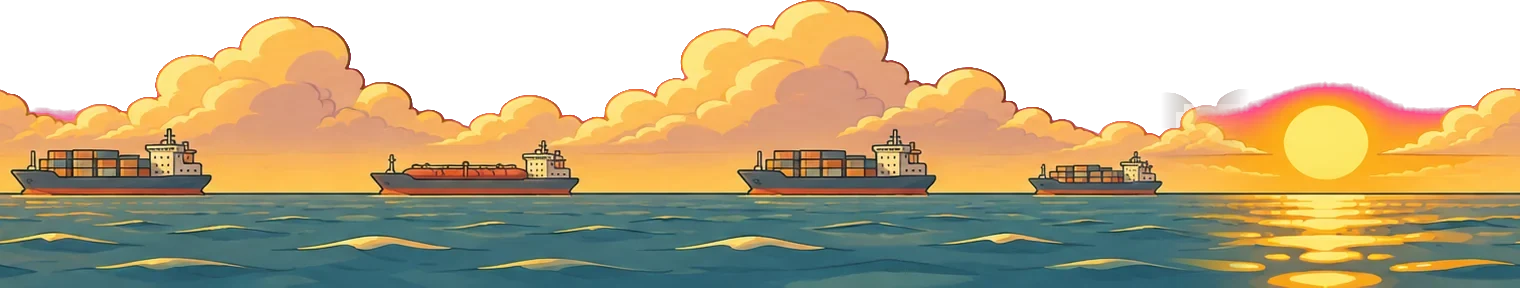
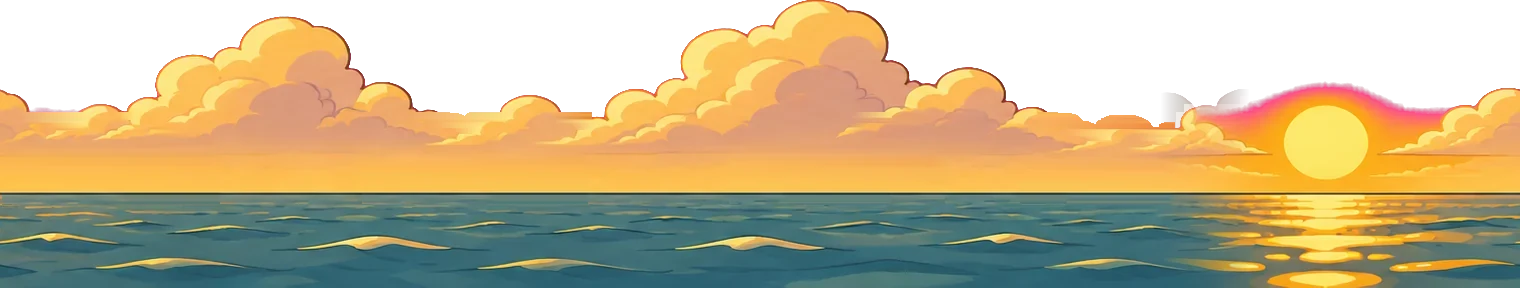
Lagos: beach sky comes in softly behind the mansion, sun behind the last tower, no ships on the horizon
Claude-Session: https://claude.ai/code/session_01HFQNfBKVo2xfi18qsga3m5

diff --git a/login.html b/login.html
@@ -212,15 +212,15 @@ details p{font-weight:600;color:var(--muted)}
 </head><body>
 
 <nav class="top"><div class="in">
-  <a class="mark" href="index.html?v=1794416194">Little Worlds</a>
-  <a class="pill sm" href="builder.html?v=1794416194&fresh=1">Build their world</a>
+  <a class="mark" href="index.html?v=1794417084">Little Worlds</a>
+  <a class="pill sm" href="builder.html?v=1794417084&fresh=1">Build their world</a>
 </div></nav>
 
 <header class="strip"><div class="torn" id="torn"></div><h1 class="outline" id="headline">Welcome <span class="s">back</span></h1></header>
 
 <aside class="side" id="side" aria-label="Account">
-  <a class="logo" href="index.html?v=1794416194">Little Worlds</a>
-  <a class="nav" href="#account"><i>⌂</i>Overview</a><a class="nav" href="#worlds"><i>★</i>Worlds</a><a class="nav" href="#plan"><i>£</i>Plan &amp; billing</a><a class="nav" href="#you"><i>⚙</i>Settings</a><a class="nav" href="#help"><i>?</i>Help</a><a class="nav" href="feedback.html?v=1794416194"><i>✎</i>Feedback</a>
+  <a class="logo" href="index.html?v=1794417084">Little Worlds</a>
+  <a class="nav" href="#account"><i>⌂</i>Overview</a><a class="nav" href="#worlds"><i>★</i>Worlds</a><a class="nav" href="#plan"><i>£</i>Plan &amp; billing</a><a class="nav" href="#you"><i>⚙</i>Settings</a><a class="nav" href="#help"><i>?</i>Help</a><a class="nav" href="feedback.html?v=1794417084"><i>✎</i>Feedback</a>
   <div class="me" id="sideMe"></div>
 </aside>
 <main class="wrap">
@@ -262,7 +262,7 @@ details p{font-weight:600;color:var(--muted)}
 (()=>{
 const $=s=>document.querySelector(s);
 const esc=t=>String(t).replace(/[&<>"]/g,c=>({'&':'&amp;','<':'&lt;','>':'&gt;','"':'&quot;'}[c]));
-const DOMAIN='myworld.games',GAME='play.html?v=1794416194';
+const DOMAIN='myworld.games',GAME='play.html?v=1794417084';
 const playLink=g=>{const c={};['name','kid','style','acc','skin','hair','hood','jog','shoe','worlds','slug'].forEach(k=>{if(g[k]!==undefined)c[k]=g[k]});c.paid=true;
   return GAME+'&w='+btoa(unescape(encodeURIComponent(JSON.stringify(c)))).replace(/\+/g,'-').replace(/\//g,'_').replace(/=+$/,'')};
 const TRIPS={woolwich:['Woolwich','ui_card_woolwich.webp','#6d3fc0'],brixton:['Brixton','ui_card_brixton.webp','#e8701c'],greenwich:['Greenwich','ui_card_greenwich.webp','#00a4a7'],canarywharf:['Canary Wharf','ui_card_canarywharf.webp','#1f62b4'],
@@ -327,7 +327,7 @@ function renderAccount(){
 function feedbackLink(){let f={};try{f=JSON.parse(localStorage.getItem('lw_feedback_v2')||'{}')}catch(e){}
   const p=f.parts||{},one=p[1]||{},two=p[2]||{};
   if(one.done&&two.done)return '';
-  return `<a class="fbk" href="feedback.html?v=1794416194"><span><b>Got a few minutes?</b> Tell us what you think of Little Worlds.</span><i>${one.i||two.i?'Carry on':'Give feedback'} ▸</i></a>`}
+  return `<a class="fbk" href="feedback.html?v=1794417084"><span><b>Got a few minutes?</b> Tell us what you think of Little Worlds.</span><i>${one.i||two.i?'Carry on':'Give feedback'} ▸</i></a>`}
 
 /* Overview (desktop dashboard) */
 function vOverview(a){
@@ -336,13 +336,13 @@ function vOverview(a){
   const cards=a.games.map(g=>{const st=stats(g),n=(g.worlds||[]).length,first=TRIPS[(g.worlds||[])[0]]||TRIPS.woolwich,url=`${g.slug}.${DOMAIN}`;
     return `<div class="dw ${g.paused?'paused':''}"><div class="pic" style="background-image:url(${first[1]})"><span class="chip ${g.paused?'off':''}">${g.paused?'Paused':'Playing'}</span><h4>${esc(g.name)}<span class="s">’s</span> World</h4></div>
       <div class="b"><span class="lk">${esc(url)}</span><div class="meta"><span>Trips finished</span><span>${st.done} of ${n}</span></div><div class="pbar"><i style="width:${n?Math.round(st.done/n*100):0}%"></i></div>
-      <div class="btns"><a class="pill" href="${playLink(g)}">Play ▸</a><a class="pill ghost" href="builder.html?v=1794416194&edit=${encodeURIComponent(g.slug)}&step=1">Edit</a>
+      <div class="btns"><a class="pill" href="${playLink(g)}">Play ▸</a><a class="pill ghost" href="builder.html?v=1794417084&edit=${encodeURIComponent(g.slug)}&step=1">Edit</a>
         <button class="pill ghost" data-sharelink="https://${esc(url)}" data-name="${esc(g.name)}">Share</button><a class="pill ghost" href="#worlds" aria-label="More options for ${esc(g.name)}’s World">•••</a></div></div></div>`}).join('');
-  const add=room>0?`<a class="addw" href="builder.html?v=1794416194&fresh=1"><div><span class="plus">+</span><b>Add a world</b><p>${room} ${room>1?'spaces':'space'} left on your plan</p></div></a>`
-    :a.plan==='one'?`<a class="addw" href="builder.html?v=1794416194&fresh=1"><div><span class="plus">+</span><b>Add a world</b><p>Switch to Family for up to 4 worlds</p></div></a>`:'';
+  const add=room>0?`<a class="addw" href="builder.html?v=1794417084&fresh=1"><div><span class="plus">+</span><b>Add a world</b><p>${room} ${room>1?'spaces':'space'} left on your plan</p></div></a>`
+    :a.plan==='one'?`<a class="addw" href="builder.html?v=1794417084&fresh=1"><div><span class="plus">+</span><b>Add a world</b><p>Switch to Family for up to 4 worlds</p></div></a>`:'';
   const g0=a.games[0],g1=a.games[1]||a.games[0];
   const feed=g0?[['🏁',`${esc(g0.name)} finished ${esc(stats(g0).fav)}`,'Today, 4:12pm'],['🪙',`${esc(g1.name)} collected 60 coins`,'Yesterday'],['✏',`You changed ${esc(g1.name)}’s trips`,'Monday']]:[];
-  return `<div class="dtop"><div><h2>Welcome back</h2><p>Here’s what’s happening in your worlds.</p></div><a class="pill" href="builder.html?v=1794416194&fresh=1">+ Build a new world</a></div>
+  return `<div class="dtop"><div><h2>Welcome back</h2><p>Here’s what’s happening in your worlds.</p></div><a class="pill" href="builder.html?v=1794417084&fresh=1">+ Build a new world</a></div>
     <div class="tiles">
       <a class="tile y" href="#worlds"><span>Worlds</span><b>${a.games.length} of ${p.max}</b><small>${p.label} plan</small></a>
       <a class="tile" href="#plan"><span>${a.cancelled?'Plan ends':'Next payment'}</span><b>${a.cancelled?fmt(nextPay(a)).split(' ').slice(0,2).join(' '):'£'+(a.yearly?p.y:p.m)}</b><small>${a.cancelled?'Worlds stay saved':fmt(nextPay(a))}</small></a>
@@ -402,8 +402,8 @@ function vWorlds(a){
   return `<div><p class="kicker">Logged in as ${esc(a.via==='apple'?'your Apple ID':a.via==='google'?'your Google account':a.email)}</p><h2 class="ph">Your <span class="hl">worlds</span></h2></div>
     <div class="wgrid">${games||'<div class="card"><h2>No worlds yet</h2><p class="lede">Build one to see it here.</p></div>'}</div>
     <div class="card"><p class="kicker">Add a world</p>
-      ${room>0?`<p class="lede">Your plan has room for ${room} more ${room>1?'worlds':'world'}.</p><a class="pill wide" href="builder.html?v=1794416194&fresh=1">Build another world ▸</a>`
-        :a.plan==='one'?`<p class="lede">The Family plan gives you up to 4 worlds (up to 4 children) for £? a month.</p><a class="pill wide" href="builder.html?v=1794416194&fresh=1">Add a world ▸</a>`
+      ${room>0?`<p class="lede">Your plan has room for ${room} more ${room>1?'worlds':'world'}.</p><a class="pill wide" href="builder.html?v=1794417084&fresh=1">Build another world ▸</a>`
+        :a.plan==='one'?`<p class="lede">The Family plan gives you up to 4 worlds (up to 4 children) for £? a month.</p><a class="pill wide" href="builder.html?v=1794417084&fresh=1">Add a world ▸</a>`
         :'<p class="lede">Your Family plan is full, with 4 worlds. Delete one to make room.</p>'}</div>
     <div class="card"><div><p class="kicker">Just landed</p><h2>New trips</h2></div><p class="lede">Swap any of these into their world. They keep their coins and progress.</p>
       <div class="newtrips">${nt}</div><a class="pill ghost wide" href="${swapTo}">Swap trips ▸</a></div>`;

diff --git a/builder.html b/builder.html
@@ -225,8 +225,8 @@ ol.how b{font-weight:800}
 .who button.on{background:var(--sun);box-shadow:0 4px 0 var(--ink)}.who button{padding:10px 4px}.who canvas{height:110px;width:auto;display:block;margin:auto}
 .chips.pics .chip{display:inline-flex;flex-direction:column;align-items:center;gap:0;padding:4px 10px 8px;border-radius:18px}.chips.pics canvas{height:64px;width:64px;display:block}</style>
 <script src="qr.js"></script>
-<script src="kids/kids-meta.js?v=1794416194"></script>
-<script src="kids/kids.js?v=1794416194"></script>
+<script src="kids/kids-meta.js?v=1794417084"></script>
+<script src="kids/kids.js?v=1794417084"></script>
 <style>.qr{display:grid;place-items:center;margin:4px auto 0;padding:12px;background:#fff;border-radius:16px;width:max-content;box-shadow:0 2px 0 rgba(0,0,0,.08)}.qr svg{display:block;width:200px;height:200px}#theLink{word-break:break-all;font-size:12px}</style>
 <style>
 .bm{position:fixed;inset:0;z-index:200;background:var(--paper);display:flex;flex-direction:column;align-items:center;justify-content:center;gap:clamp(10px,2.4vh,22px);padding:24px 16px;text-align:center;opacity:0;transition:opacity .4s}
@@ -244,9 +244,9 @@ ol.how b{font-weight:800}
 </head><body>
 
 <nav class="top"><div class="in">
-  <a class="mark" href="index.html?v=1794416194" aria-label="Back to Little Worlds"><span class="tile" id="tile">A</span>’s World</a>
+  <a class="mark" href="index.html?v=1794417084" aria-label="Back to Little Worlds"><span class="tile" id="tile">A</span>’s World</a>
   <ol class="steps" id="steps" aria-label="Steps"></ol>
-  <div class="navr"><a class="navlink" href="login.html?v=1794416194">Log in</a><span class="mock">Mock-up</span></div>
+  <div class="navr"><a class="navlink" href="login.html?v=1794417084">Log in</a><span class="mock">Mock-up</span></div>
 </div></nav>
 
 <div class="layout">
@@ -268,7 +268,7 @@ ol.how b{font-weight:800}
 <script>
 (()=>{
 const DOMAIN='myworld.games';
-const GAME='play.html?v=1794416194';
+const GAME='play.html?v=1794417084';
 const GAME_KEYS=['name','kid','style','acc','skin','hair','hood','jog','shoe','worlds','slug'];
 const gameCode=paid=>{const c={};GAME_KEYS.forEach(k=>{if(S[k]!==undefined)c[k]=S[k]});c.paid=!!paid;
   return btoa(unescape(encodeURIComponent(JSON.stringify(c)))).replace(/\+/g,'-').replace(/\//g,'_').replace(/=+$/,'')};
@@ -655,7 +655,7 @@ V.done=()=>{return `
       <div class="tabs"><button class="${S.tab==='ios'?'on':''}" data-tab="ios">iPhone or iPad</button><button class="${S.tab==='and'?'on':''}" data-tab="and">Android</button></div></div>
     ${S.tab==='ios'?`<ol class="how"><li><span>Open the link in <b>Safari</b>.</span></li><li><span>Tap the <b>•••</b> button next to the address bar.</span></li><li><span>Tap <b>Share</b>.</span></li><li><span>Scroll down and tap <b>Add to Home Screen</b>.</span></li><li><span>Leave <b>Open as Web App</b> switched on.</span></li><li><span>Tap <b>Add</b>. ${esc(nm())}’s World gets its own icon and opens full screen.</span></li></ol>`
     :`<ol class="how"><li><span>Open the link in <b>Chrome</b>.</span></li><li><span>Tap the <b>⋮</b> menu in the top corner.</span></li><li><span>Tap <b>Add to Home screen</b>, then <b>Install</b>.</span></li><li><span>${esc(nm())}’s World gets its own icon and opens full screen.</span></li></ol>`}
-    <p class="fine">We also emailed the link to ${esc((getAcct()||{}).email||'you')}. To change their trips, look or link, <a href="login.html?v=1794416194">log in to your account</a>. We email you a one-tap login link, so you never need a password.</p>
+    <p class="fine">We also emailed the link to ${esc((getAcct()||{}).email||'you')}. To change their trips, look or link, <a href="login.html?v=1794417084">log in to your account</a>. We email you a one-tap login link, so you never need a password.</p>
   </section>`};
 
 function qrSvg(t){const q=qrcode(0,'L');q.addData(t);q.make();return q.createSvgTag({cellSize:4,margin:0,scalable:true})}
@@ -714,13 +714,13 @@ function render(){
   renderSteps();
   if(window.lwPing&&!S.edit&&!S.paid&&!stepSeen[S.step]){stepSeen[S.step]=1;lwPing('step',{extra:STEP_NAMES[S.step]})}
   $('#view').innerHTML=V[S.paid?'done':S.step]();stageFor();drawPicks();if(S.paid)drawQR();
-  if(S.paid)bar(`<button class="pill ghost two" data-act="restart">Build another world</button><a class="pill two" href="login.html?v=1794416194#account" data-act="myacct">My account</a>`);
-  else if(S.edit){const back=`<a class="pill ghost back" href="login.html?v=1794416194#account" aria-label="Back to your account">◂</a>`;
+  if(S.paid)bar(`<button class="pill ghost two" data-act="restart">Build another world</button><a class="pill two" href="login.html?v=1794417084#account" data-act="myacct">My account</a>`);
+  else if(S.edit){const back=`<a class="pill ghost back" href="login.html?v=1794417084#account" aria-label="Back to your account">◂</a>`;
     bar(back+`<button class="pill" data-act="savechanges" ${canGo(4)?'':'disabled'}>Save changes</button>`)}
   else{
     const back=S.step>0?`<button class="pill ghost back" data-act="back" aria-label="Back">◂</button>`:'';
     if(S.step===4){const p=PRICES[S.plan],m=member();
-      if(m){const room=roomLeft(m);bar(back+(m.plan==='family'?(room>0?`<button class="pill" data-act="addacct">Add to my account</button>`:`<a class="pill" href="login.html?v=1794416194#account">Manage worlds</a>`):`<button class="pill" data-act="upgrade">Switch to Family and add</button>`))}
+      if(m){const room=roomLeft(m);bar(back+(m.plan==='family'?(room>0?`<button class="pill" data-act="addacct">Add to my account</button>`:`<a class="pill" href="login.html?v=1794417084#account">Manage worlds</a>`):`<button class="pill" data-act="upgrade">Switch to Family and add</button>`))}
       else bar(back+`<button class="pill" data-act="pay">Join for £${S.yearly?p.y+' a year':p.m+' a month'}</button>`)}
     else bar(back+`<button class="pill" data-act="next" ${canGo(S.step+1)?'':'disabled'}>Next: ${STEP_NAMES[S.step+1]} ▸</button>`);
   }
@@ -788,7 +788,7 @@ document.addEventListener('click',e=>{
     <form class="stack" id="laterForm" novalidate><div class="box"><input id="em2" type="email" inputmode="email" autocomplete="email" placeholder="you@example.com" aria-label="Your email"></div>
     <p class="hint" id="em2Hint" style="margin:0" aria-live="polite"></p><button class="pill wide" type="submit">Email me the link</button></form><button class="textbtn" data-close>Not now</button>`);return}
   if(d.act==='savechanges'){const a=getAcct();if(a&&a.games){const g=snapshot();const i=a.games.findIndex(x=>x.slug===new URLSearchParams(location.search).get('edit'));if(i>=0)a.games[i]=g;else a.games.push(g);setAcct(a)}
-    sheet(`<h2>Saved</h2><p>${esc(nm())} sees the changes the next time the game opens.</p><a class="pill wide" href="login.html?v=1794416194#account">Back to your account</a>`);return}
+    sheet(`<h2>Saved</h2><p>${esc(nm())} sees the changes the next time the game opens.</p><a class="pill wide" href="login.html?v=1794417084#account">Back to your account</a>`);return}
   if(d.act==='copy'){const txt=$('#theLink').textContent,b=$('#copyBtn');
     const sel=()=>{const r=document.createRange();r.selectNodeContents($('#theLink'));const s=getSelection();s.removeAllRanges();s.addRange(r);b.textContent='Selected'};
     try{navigator.clipboard.writeText(txt).then(()=>{b.textContent='Copied'},sel)}catch(err){sel()}return}

diff --git a/play.html b/play.html
@@ -18,7 +18,7 @@ html,body{height:100%;min-height:100lvh}
 }
 </style>
 <script>window.LW_SITE_MODE=1;(function(){var n='';try{var w=new URLSearchParams(location.search).get('w');if(w)n=JSON.parse(decodeURIComponent(escape(atob(w.replace(/-/g,'+').replace(/_/g,'/'))))).name||'';if(!n)n=(JSON.parse(localStorage.getItem('lw.config')||'null')||{}).name||''}catch(e){}window.LW_NAME=n.trim();if(window.LW_NAME)document.documentElement.classList.add('lw-loading');var c=(n.trim().charAt(0)||'').toUpperCase();if(/^[A-Z]$/.test(c)){document.querySelectorAll('link[rel=apple-touch-icon],link[rel=icon]').forEach(function(l){l.href='icons/'+(l.hasAttribute('data-dark')?'dark/':'')+c+'.png'})}})()</script>
-<script src="lw-ping.js?v=1794416194"></script>
+<script src="lw-ping.js?v=1794417084"></script>
 <!-- site-only:end -->
 </head><body>
 <meta charset="utf-8">
@@ -450,10 +450,10 @@ html.lw-loading .splash{visibility:hidden}
   </div>
 </section>
 
-<script src="kids/kids-meta.js?v=1794416194"></script>
-<script src="kids/kids.js?v=1794416194"></script>
-<script src="sfx.js?v=1794416194"></script>
-<script src="game.js?v=1794416194"></script>
+<script src="kids/kids-meta.js?v=1794417084"></script>
+<script src="kids/kids.js?v=1794417084"></script>
+<script src="sfx.js?v=1794417084"></script>
+<script src="game.js?v=1794417084"></script>
 <script>
 (() => {
 'use strict';
@@ -1350,7 +1350,7 @@ $('retryBtn').addEventListener('click', () => startLevel(levelIndex));
 // If the builder opened this tab, close it and show the builder again; otherwise open the builder with this child's world filled in.
 let lwJoinEnd = false;
 function lwBackToBuilder() {
-  const url = 'builder.html?v=1794416194&w=' + lwEncode(LW);
+  const url = 'builder.html?v=1794417084&w=' + lwEncode(LW);
   try { if (window.opener && !window.opener.closed && /builder\.html/.test(window.opener.location.pathname)) { window.opener.focus(); window.close(); setTimeout(() => { location.href = url; }, 400); return; } } catch (e) {}
   location.href = url;
 }
@@ -8352,6 +8352,7 @@ const LG_BANDS = { yaba: [['lg_far1', 7.4, 0.6], ['lg_mid1', 5.4, -0.6], '#7a564
 const LG_PART = { yaba: 'yaba', bridge: 'bridge', vi: 'vi', beach: 'beach', view: 'view' };
 // the Victoria Island skyline ends on whole buildings before the beach (round 6b): its last tile is a picture that stops after the
 // curved tower (far) and the mansion with its palm (mid), placed so both ends meet in the middle of the screen as A reaches the beach
+const LG_HORIZON = 0.69;   // (where the sea meets the sky in lg_far4b, as a share of its height from the top)
 const LG_END = { lg_far3: ['lg_far3_end', 0.5906, -0.3], lg_mid3: ['lg_mid3_end', 0.7525, 0] };   // end picture, its last column (share of width), nudge (units)
 function lgEndBu(key, par) {   // where (in the band's own units) the band ends
   const L = G.L, sw = L.kitSwaps.find(s => s.to === 'beach'), vw = viewW();
@@ -8370,11 +8371,11 @@ function lgOff() { const o = LG_OFF || (LG_OFF = document.createElement('canvas'
 function lgBands() {
   const L = G.L, sw = L.kitSwaps.filter(s => s.to !== 'th_in');
   const part = (a, b, fn) => { a = Math.max(-10, a); b = Math.min(W + 10, b); if (b <= a) return; ctx.save(); ctx.beginPath(); ctx.rect(a, -10, b - a, H + 20); ctx.clip(); fn(); ctx.restore(); };
-  const draw = name => {
+  const draw = (name, afterFar, farFn) => {
     if (name === 'view') return lgView();
     const B = LG_BANDS[name];
     const band = (i, gr, par) => LG_END[B[i][0]] ? lgBandEnd(B[i][0], gr, par, B[i][1], B[i][2]) : kitBand(weGrain(B[i][0], gr), par, B[i][1], B[i][2]);
-    band(0, 14, 0.1);
+    if (farFn) farFn(() => band(0, 14, 0.1)); else band(0, 14, 0.1); if (afterFar) afterFar();
     const mb = sy(name === 'beach' ? B[0][2] : B[1][2], name === 'beach' ? 0.1 : 0.3) - 2, g = ctx.createLinearGradient(0, mb, 0, H); g.addColorStop(0, B[2]); g.addColorStop(1, B[3]);
     ctx.fillStyle = g; ctx.fillRect(-10, mb, (name === 'vi' ? Math.min(W + 20, lgEndX('lg_mid3', 0.3) + 10) : W + 20), H - mb + 10);   // (under the mid band, so a high camera never shows sky below it)
     band(1, 7, 0.3);
@@ -8389,7 +8390,23 @@ function lgBands() {
     if (s.to === 'beach') {   // (round 6b, Ladi: "just have the full building, make that the last building... it's just clear skies after that")
       const e = Math.max(-10, Math.min(W + 10, lgEndX('lg_mid3', 0.3)));
       part(a, e, () => draw('vi'));
-      part(e, W + 10, () => { lgBandEnd('lg_far3', 14, 0.1, LG_BANDS.vi[0][1], LG_BANDS.vi[0][2]); draw('beach'); });   // (the towers' last ones stand behind the sea)
+      // the towers' last ones stand across the water: over the beach's sky and sun, but only down to its horizon, so the sea is in front
+      const Bb = LG_BANDS.beach[0], hz = sy(Bb[2], 0.1) - Bb[1] * U * (1 - LG_HORIZON);
+      // the beach's own sky (clouds, sun) comes in slowly over a long stretch after the mansion, in thin strips, so the sky never shows a
+      // straight line where the skyline ends (round 6c, Ladi: "on 2s there's a straight line cut"); the sea below the horizon is solid
+      const Z = 14 * U, N = 40, skyIn = far => {
+        const clip = (x0, x1, y0, y1) => { ctx.save(); ctx.beginPath(); ctx.rect(x0, y0, x1 - x0, y1 - y0); ctx.clip(); far(); ctx.restore(); };
+        clip(-10, W + 10, hz, H + 10);
+        for (let i = 0; i < N; i++) {
+          const sa = Math.round(e2 + i * Z / N), sb2 = Math.round(e2 + (i + 1) * Z / N); if (sb2 < 0 || sa > W) continue;
+          ctx.save(); ctx.globalAlpha = (i + 0.5) / N; clip(sa, sb2, -10, hz); ctx.restore();
+        }
+        if (e2 + Z < W) clip(Math.round(e2 + Z), W + 10, -10, hz);
+      };
+      // (the beach starts a little before the mansion's end, under it, so the sea's edge is hidden behind the mansion: redrawn on top)
+      const e2 = e - 1.6 * U;
+      part(e2, W + 10, () => draw('beach', () => { ctx.save(); ctx.beginPath(); ctx.rect(-10, -10, W + 20, hz + 10); ctx.clip(); lgBandEnd('lg_far3', 14, 0.1, LG_BANDS.vi[0][1], LG_BANDS.vi[0][2]); ctx.restore(); }, skyIn));
+      part(e2, e, () => draw('vi', null, () => {}));
       a = W + 10; from = s.to; continue;
     }
     const z = SOFT[s.to] ? SOFT[s.to] * U : 0, x0 = b - z / 2, x1 = b + z / 2;

diff --git a/index.html b/index.html
@@ -234,8 +234,8 @@ footer .cols a{text-decoration:none}
 
 <nav class="top" id="nav"><div class="in">
   <a class="mark" href="#top" aria-label="Home"><span class="tile" id="tile">A</span>’s World</a>
-  <div class="links"><a href="#how">How it works</a><a href="#worlds">Trips</a><a href="#prices">Prices</a><a href="login.html?v=1794416194">Log in</a></div>
-  <a class="pill sm" href="builder.html?v=1794416194" data-build>Build their world</a>
+  <div class="links"><a href="#how">How it works</a><a href="#worlds">Trips</a><a href="#prices">Prices</a><a href="login.html?v=1794417084">Log in</a></div>
+  <a class="pill sm" href="builder.html?v=1794417084" data-build>Build their world</a>
 </div></nav>
 
 <header class="scene hero torn-b" id="top">
@@ -320,7 +320,7 @@ footer .cols a{text-decoration:none}
   <div class="copy in">
     <h2 class="outline">Ready, set,<br>build</h2>
     <p>It takes about two minutes. They could be running through a new city before dinner.</p>
-    <a class="pill" href="builder.html?v=1794416194" data-build>Build their world ▸</a>
+    <a class="pill" href="builder.html?v=1794417084" data-build>Build their world ▸</a>
   </div>
 </section>
 
@@ -328,15 +328,15 @@ footer .cols a{text-decoration:none}
   <a class="mark" href="#top">Little Worlds</a>
   <div class="cols">
     <div><b>Game</b><a href="#how">How it works</a><a href="#worlds">Trips</a><a href="#prices">Prices</a></div>
-    <div><b>Account</b><a href="login.html?v=1794416194">Log in</a><a href="login.html?v=1794416194">Change trips or look</a></div>
+    <div><b>Account</b><a href="login.html?v=1794417084">Log in</a><a href="login.html?v=1794417084">Change trips or look</a></div>
     <div><b>Help</b><a href="#prices">Cancelling</a><a href="#how">Add to home screen</a></div>
   </div>
   <form class="sub-form" id="subForm"><b>Hear when new trips land</b><div class="r"><input id="subEmail" type="email" placeholder="Your email" aria-label="Your email"><button class="pill sm" type="submit">Tell me</button></div><small id="subMsg" aria-live="polite"></small></form>
   <p class="small">Mock-up. Prices, links and the sign-up form are placeholders.</p>
 </div></footer>
 
-<script src="kids/kids-meta.js?v=1794416194"></script>
-<script src="kids/kids.js?v=1794416194"></script>
+<script src="kids/kids-meta.js?v=1794417084"></script>
+<script src="kids/kids.js?v=1794417084"></script>
 <script>
 (()=>{
 const BUILDER='builder.html';

diff --git a/feedback.html b/feedback.html
@@ -93,7 +93,7 @@ nav.arrows button:disabled{opacity:.35;cursor:default}
 </style>
 </head><body>
 <header>
-  <div class="in"><a class="mark" href="login.html?v=1794416194#account">Little Worlds</a><a class="close" href="login.html?v=1794416194#account" id="closeLink">Save and close</a></div>
+  <div class="in"><a class="mark" href="login.html?v=1794417084#account">Little Worlds</a><a class="close" href="login.html?v=1794417084#account" id="closeLink">Save and close</a></div>
   <div class="bar" aria-hidden="true"><i id="bar"></i></div>
 </header>
 <main id="stage" aria-live="polite"></main>
@@ -119,7 +119,7 @@ const PART=PARAM==='2'?2:1;
 if(!PARAM){
   let st={};try{st=JSON.parse(localStorage.getItem(STORE)||'{}').parts||{}}catch(e){}
   const tag=n=>{const p=st[n]||{};return p.done?'<span class="tag done">Done ✓</span>':p.i?'<span class="tag">Started</span>':''};
-  const card=(n,title,sub)=>`<a class="pick" href="feedback.html?v=1794416194&part=${n}"><span class="pt"><b>${title}</b>${tag(n)}</span><span class="ps">${sub}</span></a>`;
+  const card=(n,title,sub)=>`<a class="pick" href="feedback.html?v=1794417084&part=${n}"><span class="pt"><b>${title}</b>${tag(n)}</span><span class="ps">${sub}</span></a>`;
   document.querySelector('#stage').innerHTML=`<section class="q"><div class="box">
     <p class="kicker">Feedback</p>
     <h1>Help us decide <span class="hl">what happens next</span></h1>

diff --git a/kit/feedback-log.md b/kit/feedback-log.md
@@ -151,3 +151,4 @@ Each entry: **level, date** — what Ladi saw → what fixed it → where to loo
 - Lagos round 5 (Ladi 2026-11-11): things to bounce on must really be bounced on and heard: the talking drums now stand close together, a tap hops A onto the small one and each drum throws him onto the next (small, mid, big voices), the big one up to special 2. A vehicle drawn from several pictures must keep one size and place in every frame ("the buggy is getting big and smaller"): line every frame up on the vehicle's body (same length, back end, bottom), never on a separate fit per frame.
 - Lagos round 6 (Ladi 2026-11-11, video): two climbing walls side by side need a clear gap (pillars 1.8 -> 2.5, towers 1.8 -> 2.3). One set of talking drums felt short: a second set makes the theatre last longer. A backdrop fade made by copying the canvas showed as a hard edge on the phone: fade with plain see-through strips, which look the same on every screen. A vehicle that flicks between two driving pictures looks jerky: drive on one picture with a gentle bob, and bumps the wheels ease on and off.
 - Lagos round 6b (Ladi 2026-11-11): where a city backdrop gives way to open sea, don't fade or cut it: end it on a whole building (Lagos: the curved tower, and the mansion with its palm in front), then clear sky and sea. A tiled strip must not have buildings cut off at its tile edges (the beach sea strip's city cluster was taken out).
+- Lagos round 6c (Ladi 2026-11-11, beach start): "a straight line cut" where the city sky met the beach sky, and the sun drawn in front of the last tower. The beach's own sky now comes in slowly over a long stretch starting behind the mansion, the sea starts behind the mansion too, the last tower is drawn after the beach sky (sun behind it), and the far ships were taken out of the beach strip so nothing shows see-through while the sky comes in.
